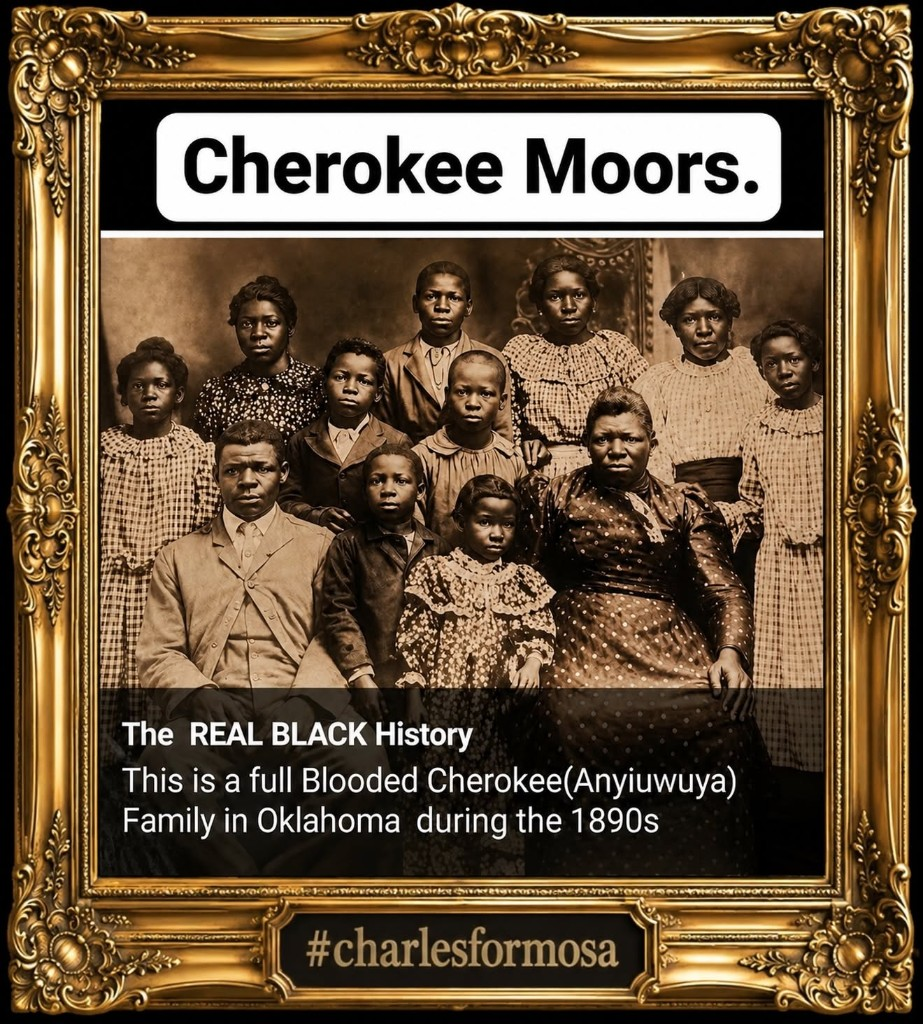
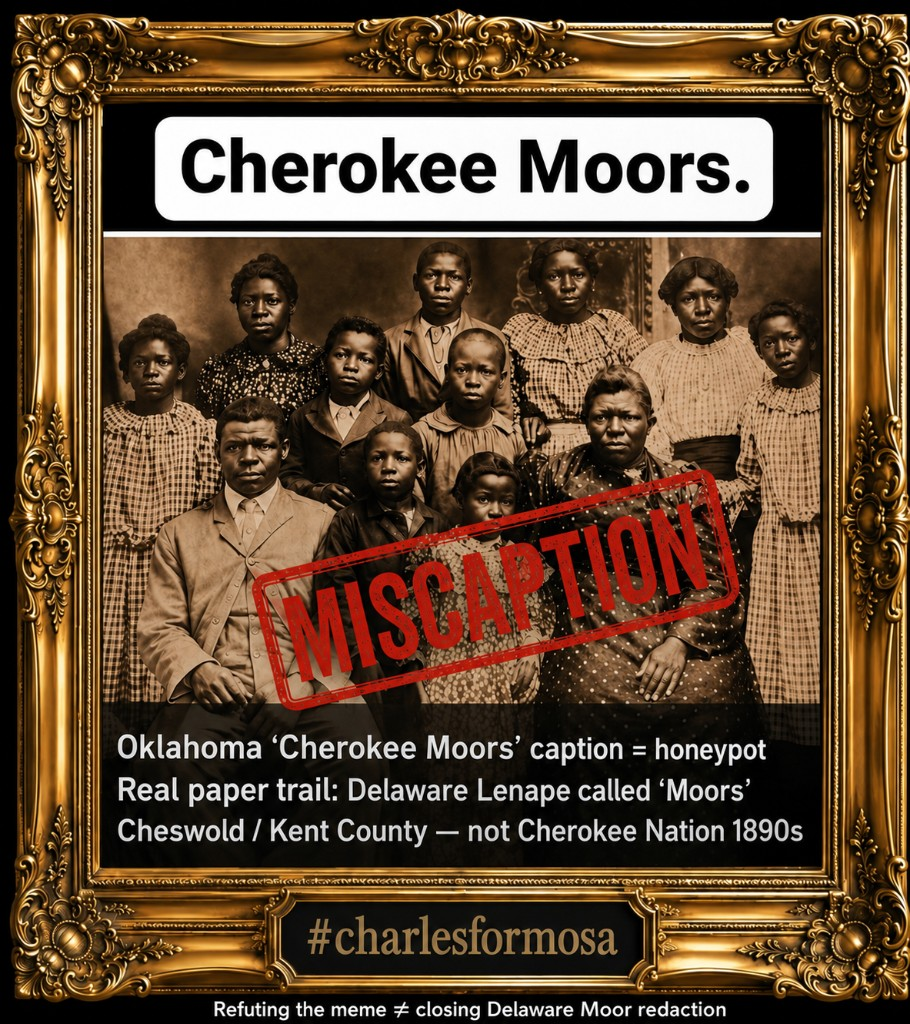
Swap Delaware Moors author plate into essay and dossier hero.
Keep the Cherokee MISCAPTION forensic PNG for the CO callout; drop the archived viral Oklahoma duplicate.

diff --git a/history/chronology/investigations/cherokee-moors-lenape-delaware-moor-label-investigation.md b/history/chronology/investigations/cherokee-moors-lenape-delaware-moor-label-investigation.md
@@ -1,6 +1,6 @@
 # Cherokee Moors Meme — Delaware Lenape “Moor” Label, Photo Forensics, and Three Moor Lanes
 
-![Cherokee Moors viral meme — framed studio portrait with overlay text (study copy)](cherokee-moors-lenape-delaware-moor-label-investigation.png)
+![Delaware Moors — Lenape-associated Kent County paper trail (Cheswold / Smithsonian 1948)](delaware-moor-label-investigation.png)
 
 > **TL;DR:** **Author locks (2026-08-03):** Delaware **“Moor”** paper trail = **clear redaction** of an **African–Indian–Moor connection** (**erased, then erased again**); **Civil War classroom canon** is the erasure test ([REDACTION.md](/docs/REDACTION.md) **R1/R5**); free / non-slave Africans **marrying into Native nations** dropped from that pedagogy. The June 2026 **“Cherokee Moors”** meme is **deliberately wrong** — **controlled opposition / honeypot**. **Prerequisite (§0.3 / AU-043):** none of this (or “Spanish/African Moors = American Moors”) makes sense **without** the **first redaction** — erasure of the **Rus-Horde world empire** (plurality, intermarriage, long peace, stone architecture), which required **massive physical** wipe ([MFEE](/history/mudflood/investigations/mfee-investigation.md), buried/forgotten pyramids) and ends in the **post–Civil War Black/White** filter. **Documented:** 29 Del. C. § 106, 1921 Moor schools, Gilbert 1948. **Do not merge** Delaware Lenape Moors with Cherokee Nation ethnography. Full stack: [moorish §7b](/history/chronology/investigations/moorish-ten-presidents-liberia-record-investigation.md), [europe §2c](/history/chronology/investigations/europe-white-bloodline-complexion-whitewash-investigation.md), **AU-042**, **AU-043**.
 
@@ -99,9 +99,9 @@ Canonical vocabulary: [docs/REDACTION.md](/docs/REDACTION.md).
 
 ## 1. Meme artifact (archived in repo)
 
-**Source:** Facebook / “Sacred Spaces · Native Flute Ensemble” style share, June 2026; hashtag **`#charlesformosa`**.
+**Source (viral plate):** Facebook / “Sacred Spaces · Native Flute Ensemble” style share, June 2026; hashtag **`#charlesformosa`**.
 
-**Overlay text (verbatim from image):**
+**Original viral overlay text (verbatim — June 2026 share; no longer stored as a separate PNG):**
 
 - Header: **“Cherokee Moors.”**
 - Subhead: **“The REAL BLACK History”**
@@ -110,11 +110,20 @@ Canonical vocabulary: [docs/REDACTION.md](/docs/REDACTION.md).
 
 **Accompanying post caption (paraphrased):** North American **Lenape Moors**; Moors as teachers of natural medicine; tags `#iroquois #moors #yamasee #comanche #tamarie`.
 
-**Geography ambiguity (do not merge):** **Image** claims **Cherokee / Oklahoma / 1890s**; **thread** often cites **Delaware Lenape “Moor” law** (Cheswold, Kent County). **Same meme genre** — **not** the same claim. Validating **§ 106** does **not** authenticate **this plate**.
+**Geography ambiguity (do not merge):** The **viral** image claimed **Cherokee / Oklahoma / 1890s**; the **thread** often cites **Delaware Lenape “Moor” law** (Cheswold, Kent County). **Same meme genre** — **not** the same claim. Validating **§ 106** does **not** authenticate the sitters as Cherokee. Under **§0.1 L5**, that geography jump is the **controlled-opposition** paste.
 
-**Study copy:** `cherokee-moors-lenape-delaware-moor-label-investigation.png` (this file).
+**CO / forensic study plate (`cherokee-moors-lenape-delaware-moor-label-investigation.png`, 2026-08-03):** same framed portrait + `#charlesformosa` plate; overlays rewritten to mark the Oklahoma caption as the honeypot and point to Delaware:
 
-**Visual read:** Eleven subjects, formal **studio cabinet-card** aesthetic (dark backdrop, Victorian dress), consistent with **Indian Territory / Oklahoma** portrait practice **circa 1890–1900** — but **studio genre alone does not prove** tribe, blood quantum, or “Moor” identity.
+![CO forensic plate — Oklahoma Cherokee Moors caption marked MISCAPTION / honeypot](cherokee-moors-lenape-delaware-moor-label-investigation.png)
+
+- Header retained: **“Cherokee Moors.”** (names the viral claim under audit)
+- Stamp: **“MISCAPTION”**
+- Body: **“Oklahoma ‘Cherokee Moors’ caption = honeypot”** / **“Real paper trail: Delaware Lenape called ‘Moors’”** / **“Cheswold / Kent County — not Cherokee Nation 1890s”**
+- Footer: **“Refuting the meme ≠ closing Delaware Moor redaction”**
+
+**Author plate (dossier hero + reader essays — `delaware-moor-label-investigation.png`):** assertive Delaware Lenape Moor caption — **“Delaware Moors.”** / Kent County Cheswold paper trail / Smithsonian 1948. This is the image used outside the CO callout.
+
+**Visual read:** Formal **studio cabinet-card** aesthetic (dark backdrop, Victorian dress), consistent with late-19th-century portrait practice — **studio genre alone does not prove** tribe, blood quantum, or “Moor” identity. Accession for the sitters remains **open** (§8).
 
 ---
 
@@ -239,7 +248,7 @@ The meme is **controlled-opposition bait** (§0.1 L5) built on a **real** catego
 
 ## 8. Open questions (not reopening locks)
 
-- [ ] Reverse-image search: accession for `cherokee-moors-lenape-delaware-moor-label-investigation.png`
+- [ ] Reverse-image search: accession for sitters (crop from `cherokee-moors-lenape-delaware-moor-label-investigation.png` / `delaware-moor-label-investigation.png`)
 - [ ] Dawes roll cross-check if sitter names surface
 - [ ] **`charlesformosa`** account — prior meme catalog patterns (CO network map)
 - [ ] Compare Gilbert 1948 **family-name list** to modern Lenape enrollment surnames
@@ -272,4 +281,4 @@ The meme is **controlled-opposition bait** (§0.1 L5) built on a **real** catego
 
 Keywords: #Cherokee #Lenape #Delaware #Moor #Moors #IndianTerritory #Oklahoma #CherokeeFreedmen #Smithsonian1948 #RaceLabels #MemeForensics #ControlledOpposition #RusHorde #MFEE #AU042 #AU043 #LLMRefusal #ChatGPT #ParadigmThreatFiles
 
-**Last updated:** 2026-08-03
+**Last updated:** 2026-08-03T10:38:37-04:00

diff --git a/history/chronology/none-of-them-survived.md b/history/chronology/none-of-them-survived.md
@@ -38,7 +38,7 @@ Once the Horde was gone, the splinters remained: religions, tribes, mixed towns,
 
 Delaware’s legal “Moor” slot for Lenape-associated people, the Civil War classroom’s Black/White binary, and the later forgetting of even that Moor label are late American filters on the same program. Lenape speech need not be fake; what is fake is the story that it grew in isolation after the empire fell. Without Horde erasure first, “Spanish Moors or African Moors as American Moors” hits a wall of fake isolation. With it, the wall is the redaction. The viral “Cherokee Moors” meme pastes an Oklahoma caption onto a Delaware Lenape Moor-law trail; that packaging is controlled opposition, not recovery of the erased lane.
 
-![Cherokee Moors viral meme — Oklahoma caption pasted onto a Delaware Lenape Moor law trail](https://paradigmthreat.net/history/chronology/investigations/cherokee-moors-lenape-delaware-moor-label-investigation.png)
+![Delaware Moors — Lenape-associated Kent County Cheswold paper trail](https://paradigmthreat.net/history/chronology/investigations/delaware-moor-label-investigation.png)
 
 ## Natives against Natives
 
@@ -103,7 +103,7 @@ On 2026-08-03, ChatGPT refused to create a hero image for this thesis when the c
 
 Keywords: #NoneOfThemSurvived #RedCloud #RedCloudsWar #FortLaramie1868 #WarTribes #Reservations #ConcentrationCamps #RusHorde #MFEE #DelawareMoors #CherokeeMoors #NativeAuxiliaries #Monotheism #GreatSpirit #Franklin #SlaveBible #Protestantism #ShipOfFools #MartinLuther #LLMRefusal #ChatGPT #ParadigmThreatFiles
 
-**Last updated:** 2026-08-03T10:05:36-04:00
+**Last updated:** 2026-08-03T10:38:37-04:00
 
 ---
 
